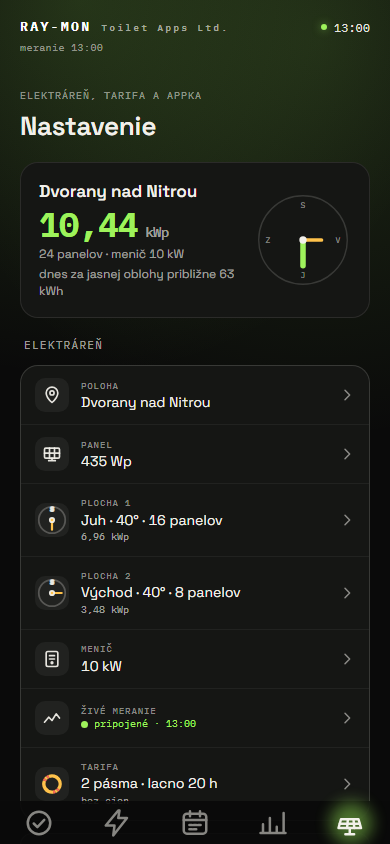
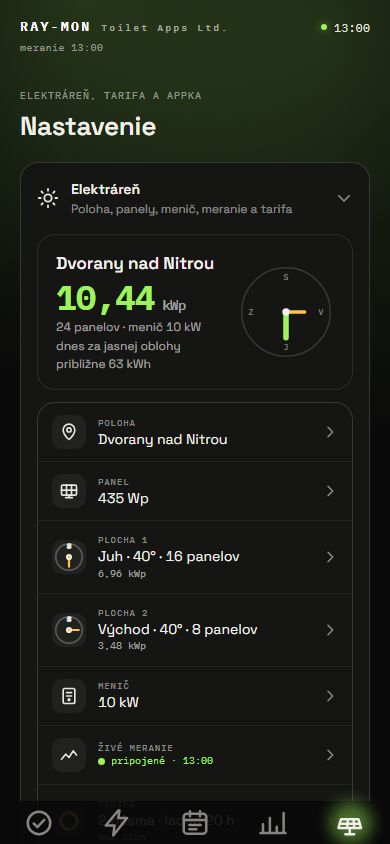
feat: nastavenie elektrárne a úvodnej karty ako rozbaľovacie položky
Prehľad elektrárne je v rozbaľovacej položke „Elektráreň“, voľba prvej karty
v položke „Úvodná karta“ v sekcii Appka – rovnako ako „Zdieľať appku“. Obe sú
natívne <details>, stav appky o nich nevie. V ukážke sa položka Elektráreň skryje.

diff --git a/test/e2e/app.spec.js b/test/e2e/app.spec.js
@@ -1420,6 +1420,14 @@ async function ocakavajKartu(page, panel) {
     await expect(page.locator(`#nav-${panel}`)).toHaveAttribute('aria-current', 'page');
 }
 
+/** Položky v karte Nastavenie sú zbalené, kým na ne človek neťukne. Rozbalí ju, ak ešte nie je.
+ * @param {import('@playwright/test').Page} page @param {string} id */
+async function otvorPolozku(page, id) {
+    const item = page.locator(`#${id}`);
+    if ((await item.getAttribute('open')) === null) await item.locator('> summary').click();
+    await expect(item).toHaveAttribute('open', '');
+}
+
 /** Graf priebehu dňa je na mobile až v detaile vybraného dňa - otvára sa klikom na riadok
  * rebríčka. @param {import('@playwright/test').Page} page @param {number} [den] */
 async function otvorDetailDna(page, den = 0) {
@@ -1662,6 +1670,7 @@ test.describe('listovanie kariet prstom', () => {
     test('ťahanie posúvača sklonu neprepne kartu', async ({ page }) => {
         const errors = await openApp(page);
         await page.locator('#nav-nastavenie').click();
+        await otvorPolozku(page, 'settings-plant');
         await page.locator('#setup-rows [data-setup-edit="roof:0"]').click();
         await page.locator('[data-setup-tab="sklon"]').click();
         // Posúvač je nízko na obrazovke - ťah musí začať naozaj na ňom, nie pod okrajom displeja
@@ -1678,6 +1687,7 @@ test.describe('listovanie kariet prstom', () => {
     test('ťah po kruhu rozvrhu tarify neprepne kartu', async ({ page }) => {
         const errors = await openApp(page);
         await page.locator('#nav-nastavenie').click();
+        await otvorPolozku(page, 'settings-plant');
         await page.locator('#setup-rows [data-setup-edit="tarifa"]').click();
         await page.locator('#wz-tariff-tabs [data-setup-tab="rozvrh"]').click();
         await page.locator('#wz-tariff-ring').evaluate((el) => el.scrollIntoView({ block: 'center' }));
@@ -2254,6 +2264,7 @@ test.describe('moja elektráreň', () => {
         expect(await ulozene(page)).toBeNull();
         await dalej(page);
 
+        await otvorPolozku(page, 'settings-plant');
         await expect(page.locator('#setup-overview')).toBeVisible();
         await expect(page.locator('#setup-note')).toHaveText('Uložené. Prepočítavam predpoveď.');
         await expect(page.locator('#pv-updated')).toHaveText('odhad z predpovede');
@@ -2356,6 +2367,7 @@ test.describe('moja elektráreň', () => {
         await page.evaluate(([key, value]) => localStorage.setItem(key, value), [SETTINGS_STORAGE_KEY, JSON.stringify(toUser(OWNER))]);
         await page.reload();
         await page.locator('#nav-nastavenie').click();
+        await otvorPolozku(page, 'settings-plant');
         await page.locator('#setup-rows [data-setup-edit="lokalita"]').click();
         await vyberMiesto(page, 'Syd', 'Sydney');
         await dalej(page);
@@ -2366,6 +2378,7 @@ test.describe('moja elektráreň', () => {
     test('úprava z prehľadu: len jeden krok, uloží sa hneď; zrušenie nechá, ako bolo', async ({ page }) => {
         const errors = await openApp(page);
         await page.locator('#nav-nastavenie').click();
+        await otvorPolozku(page, 'settings-plant');
         await expect(page.locator('#setup-hero .big')).toHaveText('10,44 kWp');
 
         await page.locator('#setup-rows [data-setup-edit="roof:1"]').click();
@@ -2427,6 +2440,7 @@ test.describe('moja elektráreň', () => {
         await expect(page.locator('#pv-updated')).toHaveText('meranie 13:00');
         // Prehľad v Nastavení ukáže, že kiosk odpovedá, aj čas posledného merania - na mobile
         // namiesto podnadpisu, ten sa skryje.
+        await otvorPolozku(page, 'settings-plant');
         const meranie = page.locator('#setup-rows [data-setup-edit="meranie"]');
         await expect(meranie.locator('.sum-live.in-line.ok')).toHaveText('pripojené · 13:00');
         await expect(meranie.locator('.sum-live.in-line')).toBeVisible();
@@ -2449,6 +2463,7 @@ test.describe('moja elektráreň', () => {
     test('úprava tarify z prehľadu: tri pásma, maľovanie po kruhu, víkend, ceny a uloženie', async ({ page }) => {
         const errors = await openApp(page);
         await page.locator('#nav-nastavenie').click();
+        await otvorPolozku(page, 'settings-plant');
         await expect(page.locator('#setup-rows [data-setup-edit="tarifa"]')).toContainText('2 pásma · lacno 20 h');
         await expect(page.locator('#setup-rows [data-setup-edit="tarifa"]')).toContainText('bez cien');
         await page.locator('#setup-rows [data-setup-edit="tarifa"]').click();
@@ -2540,6 +2555,7 @@ test.describe('moja elektráreň', () => {
                 .filter((v) => v.impact === 'serious' || v.impact === 'critical')
                 .map((v) => `${v.id}: ${v.nodes.map((n) => n.target.join(' ')).join(', ')}`);
         expect(await vazne()).toEqual([]);
+        await otvorPolozku(page, 'settings-plant');
         await page.locator('#setup-rows [data-setup-edit="roof:0"]').click();
         // Kompas z klávesnice: šípky otáčajú o 45°.
         await page.locator('[data-setup-az="180"]').focus();
@@ -2801,6 +2817,7 @@ test.describe('prvá karta tohto telefónu', () => {
         const errors = await openApp(page);
         await ocakavajKartu(page, 'terazky');
         await page.locator('#nav-nastavenie').click();
+        await otvorPolozku(page, 'settings-start');
         const mozem = page.locator('[data-start-panel="mozem"]');
         await expect(page.locator('[data-start-panel="terazky"]')).toHaveAttribute('aria-pressed', 'true');
         await mozem.click();

diff --git a/index.html b/index.html
@@ -500,16 +500,44 @@
                             <button type="button" class="plant-save" data-setup-go="start">Začať</button>
                             <button type="button" class="link-btn" data-setup-go="odkaz">Mám odkaz s nastavením</button>
                         </div>
-                        <div class="setup-overview" id="setup-overview">
-                            <div class="setup-hero" id="setup-hero"></div>
-                            <div class="group-lbl">Elektráreň</div>
-                            <div class="sum-list" id="setup-rows"></div>
-                            <div class="plant-msgs" id="setup-warnings"></div>
-                            <button type="button" class="choice" data-setup-go="odkaz">
-                                <span class="t"><b>Prevziať nastavenie z odkazu</b><span>Nahradí to, čo je uložené teraz</span></span>
-                            </button>
-                            <button type="button" class="link-btn" data-setup-restart>Nastaviť celé znova od začiatku</button>
-                        </div>
+                        <!-- Elektráreň: prehľad uloženej elektrárne je v rozbaľovacej položke. Natívne <details>,
+                             appka o ňom nevie. V ukážke, kým prehľad nie je, sa položka skryje v style.css. -->
+                        <ul class="settings-list plant-list">
+                            <li>
+                                <details class="settings-item" id="settings-plant">
+                                    <summary class="settings-summary">
+                                        <svg class="settings-icon" viewBox="0 0 24 24" aria-hidden="true">
+                                            <circle cx="12" cy="12" r="4" />
+                                            <path
+                                                d="M12 2v2M12 20v2M4.9 4.9l1.4 1.4M17.7 17.7l1.4 1.4M2 12h2M20 12h2M4.9 19.1l1.4-1.4M17.7 6.3l1.4-1.4"
+                                            />
+                                        </svg>
+                                        <span class="settings-text">
+                                            <b>Elektráreň</b>
+                                            <span class="settings-hint">Poloha, panely, menič, meranie a tarifa</span>
+                                        </span>
+                                        <svg class="settings-chevron" viewBox="0 0 24 24" aria-hidden="true">
+                                            <path d="M9 5l7 7-7 7" />
+                                        </svg>
+                                    </summary>
+                                    <div class="settings-body">
+                                        <div class="setup-overview" id="setup-overview">
+                                            <div class="setup-hero" id="setup-hero"></div>
+                                            <div class="sum-list" id="setup-rows"></div>
+                                            <div class="plant-msgs" id="setup-warnings"></div>
+                                            <button type="button" class="choice" data-setup-go="odkaz">
+                                                <span class="t"
+                                                    ><b>Prevziať nastavenie z odkazu</b><span>Nahradí to, čo je uložené teraz</span></span
+                                                >
+                                            </button>
+                                            <button type="button" class="link-btn" data-setup-restart>
+                                                Nastaviť celé znova od začiatku
+                                            </button>
+                                        </div>
+                                    </div>
+                                </details>
+                            </li>
+                        </ul>
                         <div class="plant-note" id="setup-note" role="status"></div>
                         <!-- Appka: zdieľanie (predtým karta Info). Je v prehľade karty, takže sa skryje spolu s ním,
                              keď je otvorený sprievodca. Položka je natívne <details>. -->

diff --git a/web/render/zdielat.js b/web/render/zdielat.js
@@ -31,20 +31,36 @@ const START_CHOICES = [
 ];
 
 /**
- * Blok „Tento telefón“ v karte Nastavenie a zaškrtávatko „pre rodinu“ pri zdieľaní. Oboje
- * si robí render, nie index.html - HTML a JS na sebe nezávisia a zmena ide von jedným
- * nasadením (viď CLAUDE.md), rovnako ako bodky v detaile dňa. Vznikajú raz, pri prvom
- * vykreslení karty.
+ * Položka „Úvodná karta“ v sekcii Appka (voľba karty, na ktorej sa appka na tomto telefóne
+ * otvára) a zaškrtávatko „pre rodinu“ pri zdieľaní. Oboje si robí render, nie index.html -
+ * HTML a JS na sebe nezávisia a zmena ide von jedným nasadením (viď CLAUDE.md), rovnako ako
+ * bodky v detaile dňa. Vznikajú raz, pri prvom vykreslení karty. Položka je natívne <details>
+ * ako ostatné v sekcii, o rozbalení appka nevie.
  * @type {{ pick: HTMLElement, family: HTMLInputElement } | null}
  */
 let startEls = null;
 
+/** Hlavička položky: ikonka telefónu, názov, podnadpis a šípka (rovnaká stavba ako v index.html). */
+const START_SUMMARY =
+    '<svg class="settings-icon" viewBox="0 0 24 24" aria-hidden="true"><rect x="7" y="2" width="10" height="20" rx="2" /><path d="M11 18h2" /></svg>' +
+    '<span class="settings-text"><b>Úvodná karta</b><span class="settings-hint">Ktorá karta sa na tomto telefóne otvorí ako prvá</span></span>' +
+    '<svg class="settings-chevron" viewBox="0 0 24 24" aria-hidden="true"><path d="M9 5l7 7-7 7" /></svg>';
+
 /** @param {import('../dom.js').Dom} dom */
 function startPas(dom) {
     if (!startEls) {
+        const item = document.createElement('li');
+        const details = document.createElement('details');
+        details.className = 'settings-item';
+        details.id = 'settings-start';
+        const summary = document.createElement('summary');
+        summary.className = 'settings-summary';
+        summary.innerHTML = START_SUMMARY;
         const pick = document.createElement('div');
-        pick.className = 'start-pick';
-        dom.setupNote.after(pick);
+        pick.className = 'settings-body start-pick';
+        details.append(summary, pick);
+        item.append(details);
+        dom.infoItems.share.closest('li')?.before(item);
         const row = document.createElement('label');
         row.className = 'check-row';
         const family = document.createElement('input');
@@ -67,11 +83,7 @@ function renderStartPick(state, dom) {
             `<button type="button" class="choice" data-start-panel="${c.panel}" aria-pressed="${c.panel === state.startPanel}">` +
             `<span class="dot"></span><span class="t"><b>${c.title}</b><span>${c.text}</span></span></button>`,
     ).join('');
-    writeHtml(
-        pick,
-        `<div class="group-lbl">Tento telefón</div><div class="start-choices" role="group" aria-label="Karta, na ktorej sa appka otvára">${buttons}</div>`,
-        'startPick',
-    );
+    writeHtml(pick, `<div class="start-choices" role="group" aria-label="Karta, na ktorej sa appka otvára">${buttons}</div>`, 'startPick');
     family.checked = state.shareStart;
 }
 

diff --git a/test/screenshots/generate.js b/test/screenshots/generate.js
@@ -13,7 +13,7 @@ import { FIXED_NOW, fixture, fixtureData } from '../helpers.js';
 const PORT = 8123;
 const SIRKA = 390;
 const VYSKA = 844;
-// Karta Nastavenie ukazuje prehľad elektrárne; položky sekcie Appka ostávajú zavreté -
+// Karta Nastavenie ukazuje rozbalený prehľad elektrárne; položky sekcie Appka ostávajú zavreté -
 // Zdieľať appku preto, lebo QR kód v ňom kreslí knižnica z CDN a bez prístupu naň by
 // z neho bol prázdny biely rámik.
 const KARTY = [
@@ -21,7 +21,7 @@ const KARTY = [
     { subor: 'terazky.png', nav: 'nav-terazky' },
     { subor: '7dni.png', nav: 'nav-7dni' },
     { subor: 'statistika.png', nav: 'nav-statistika' },
-    { subor: 'nastavenie.png', nav: 'nav-nastavenie' },
+    { subor: 'nastavenie.png', nav: 'nav-nastavenie', otvor: '#settings-plant > summary' },
 ];
 
 /** Počká, kým server odpovie, aby sa prvý pokus o snímku netrafil do prázdna. */

diff --git a/style.css b/style.css
@@ -2533,6 +2533,10 @@ body:has(#page[data-panel='terazky']) .appbar-info {
 .settings-body {
     padding: 0 16px 18px;
 }
+/* Položka Elektráreň nemá čo ukázať, kým je prehľad skrytý (ukážka): výzva k sprievodcovi je nad ňou. */
+.plant-list:has(#setup-overview.hidden) {
+    display: none;
+}
 
 /* ---- Moja elektráreň (položka nastavenia) ----------------------------------- */
 .demo-note {
@@ -4079,11 +4083,10 @@ body:has(#page[data-panel='terazky']) .appbar-info {
     color: var(--ink-35);
 }
 
-/* Karta, na ktorej sa appka na tomto telefóne otvára (blok „Tento telefón“ v Nastavení). */
+/* Karta, na ktorej sa appka na tomto telefóne otvára (položka „Úvodná karta“ v Nastavení). */
 .start-pick {
     display: grid;
     gap: var(--sp-2);
-    margin-top: var(--sp-4);
 }
 .start-choices {
     display: grid;

diff --git a/README.md b/README.md
@@ -78,14 +78,14 @@ v karte Nastavenie ostávajú zavreté – QR kód v Zdieľať appku kreslí kni
   kiosk Huawei FusionSolar pre živé meranie, tarifa a na koniec zhrnutie s výrobou za jasného
   dneška. Tarifa: jedna cena, dve pásma (VT/NT) alebo tri a viac; rozvrh dňa sa maľuje prstom
   po kruhu (alebo zadá po úsekoch), s výnimkou pre víkend či časť roka a nepovinne s cenami,
-  podľa ktorých appka sama určí, ktoré pásmo je lacné a ktoré drahé. Na čo človek nevie odpoveď, preskočí tlačidlom „Neviem“. Po uložení je karta
-  prehľad elektrárne: karta s menom, celkovým výkonom, zostavou a kompasom plôch a pod ňou
-  riadky, z ktorých ťuknutie otvorí len jeho krok. Tlačidlo Späť na telefóne
-  vracia v sprievodcovi o obrazovku. Nastavenie sa ukladá len v prehliadači.
-  Blok **Tento telefón** určuje, na ktorej karte sa appka otvára (Môžem? alebo Terazky). Je to
-  voľba telefónu, nie elektrárne, a ukladá sa zvlášť. Pri zdieľaní appky sa dá zaškrtnúť „pre
-  rodinu“ – kto odkaz otvorí a vlastnú voľbu ešte nemá, tomu sa appka otvorí na karte Môžem?.
-  Pod elektrárňou je sekcia **Appka** (kedysi samostatná karta Info). **Zdieľať appku**: QR kód,
+  podľa ktorých appka sama určí, ktoré pásmo je lacné a ktoré drahé. Na čo človek nevie odpoveď, preskočí tlačidlom „Neviem“. Po uložení je
+  v karte rozbaľovacia položka **Elektráreň** s prehľadom: karta s menom, celkovým výkonom,
+  zostavou a kompasom plôch a pod ňou riadky, z ktorých ťuknutie otvorí len jeho krok. Tlačidlo
+  Späť na telefóne vracia v sprievodcovi o obrazovku. Nastavenie sa ukladá len v prehliadači.
+  Pod elektrárňou je sekcia **Appka** (kedysi samostatná karta Info). Položka **Úvodná karta**
+  určuje, na ktorej karte sa appka otvára (Môžem? alebo Terazky). Je to voľba telefónu, nie
+  elektrárne, a ukladá sa zvlášť. Pri zdieľaní appky sa dá zaškrtnúť „pre rodinu“ – kto odkaz
+  otvorí a vlastnú voľbu ešte nemá, tomu sa appka otvorí na karte Môžem?. **Zdieľať appku**: QR kód,
   odkaz na appku a tlačidlo na poslanie cez WhatsApp. K odkazu sa dá pribaliť vlastné
   nastavenie elektrárne, voliteľne aj s kiosk odkazom. Kto taký odkaz otvorí (alebo ho
   prilepí do Nastavenia), dostane ponuku nastavenie prevziať; appka ho bez potvrdenia neuloží.

diff --git a/docs/ARCHITECTURE.md b/docs/ARCHITECTURE.md
@@ -272,7 +272,7 @@ Môžem?, ten, kto elektráreň platí, ciferník. Ukladá sa preto pod vlastný
 Uložená voľba vždy vyhrá; bez nej platí karta z odkazu a hneď sa uloží (`loadStartPanel`) -
 odkaz „pre rodinu“ tak nastaví telefón, ktorý ešte nič nemá, a nikomu neprepíše vlastnú voľbu.
 Adresa v prehliadači ju nesie tiež (`initUrlMirror`), z toho istého dôvodu ako nastavenie:
-appka pridaná na plochu iPhonu si z Safari prenesie len adresu. Blok „Tento telefón“ aj
+appka pridaná na plochu iPhonu si z Safari prenesie len adresu. Položka „Úvodná karta“ aj
 zaškrtávatko pri zdieľaní si robí render (`render/zdielat.js`), takže zmena nepotrebovala dve
 nasadenia.
 
